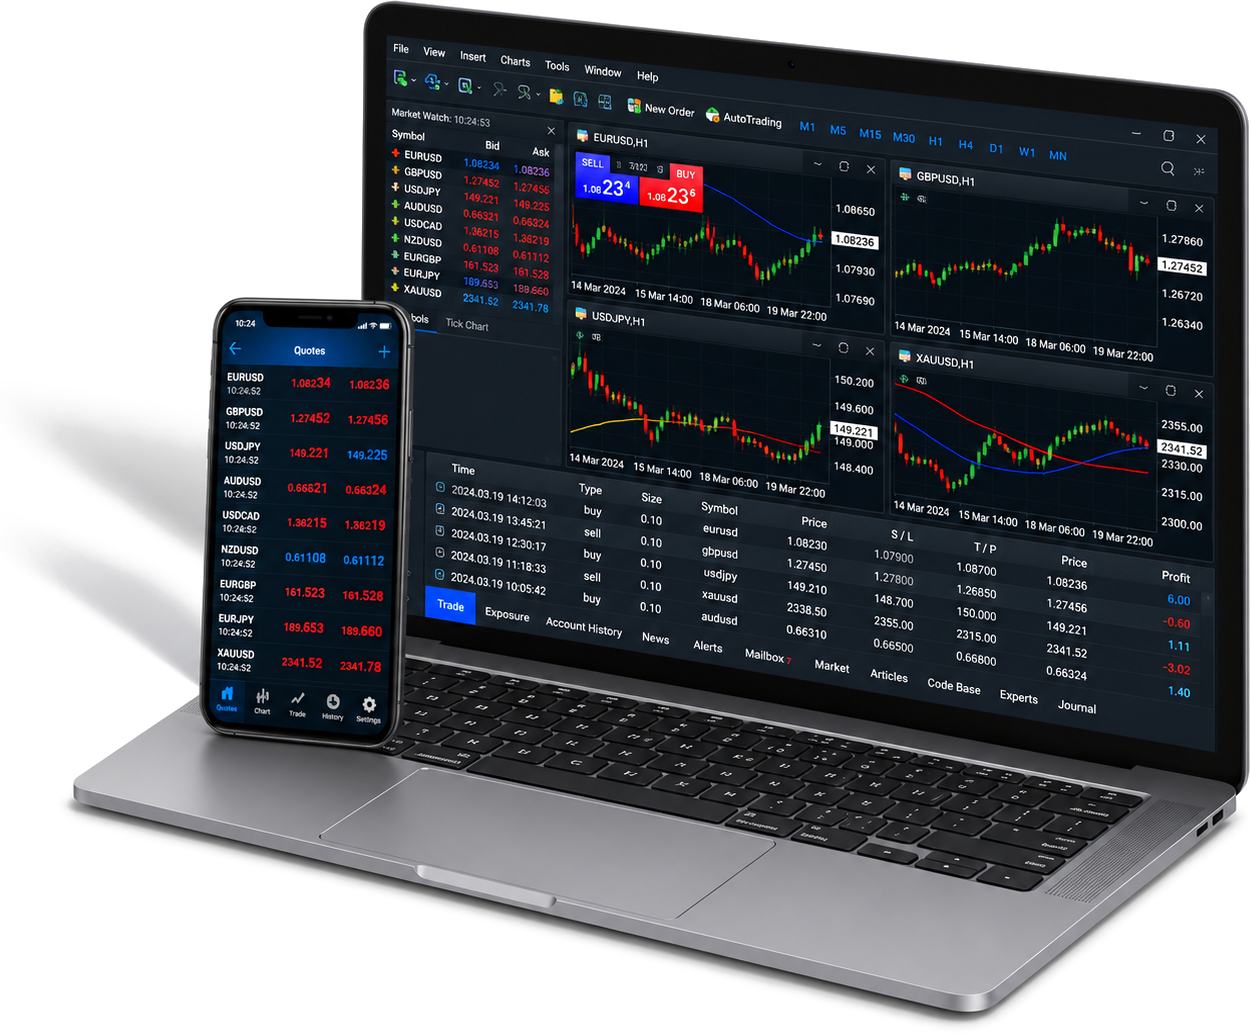
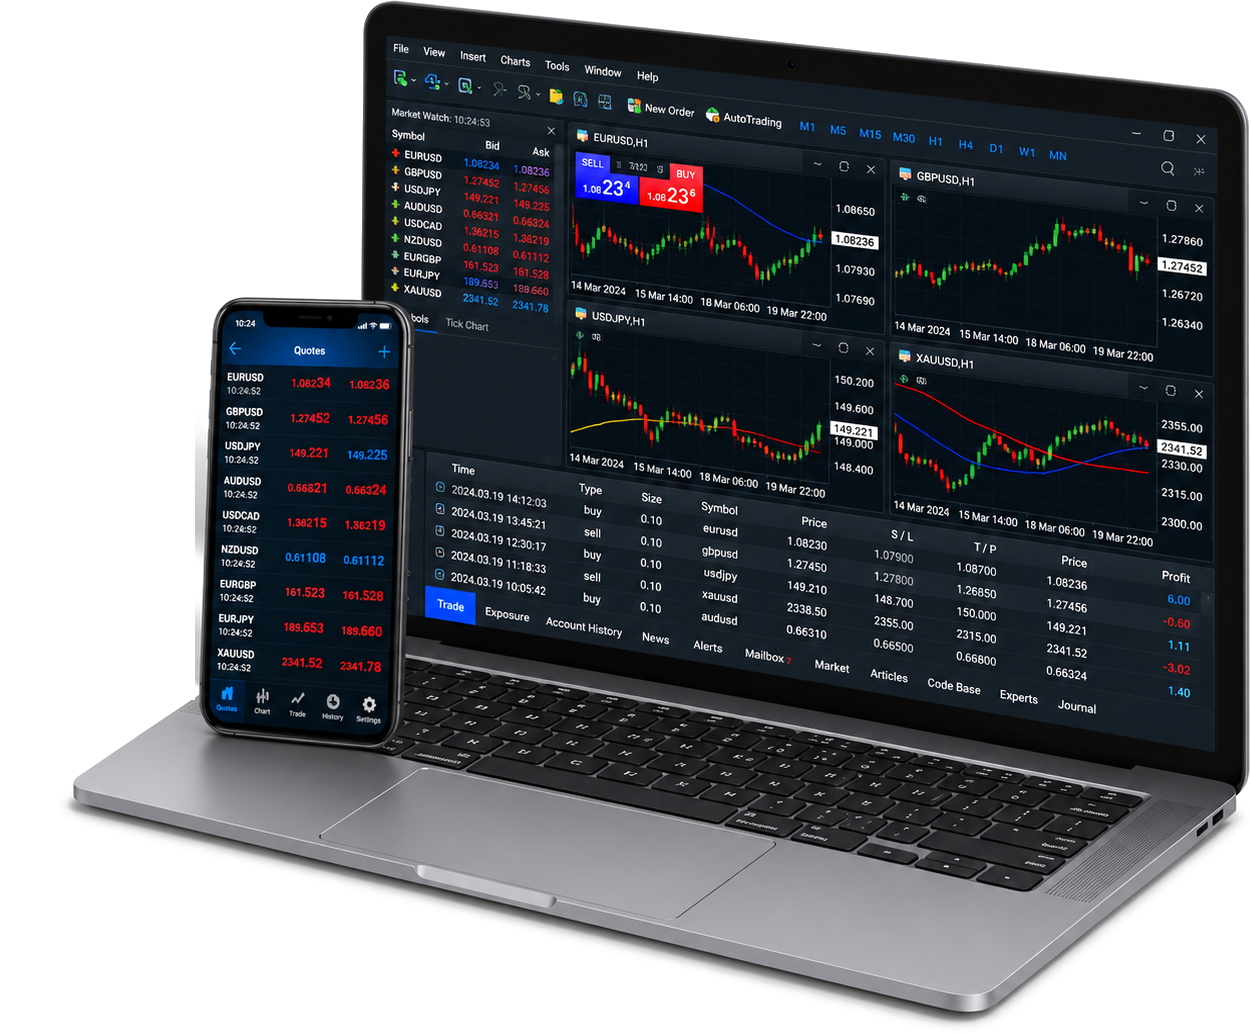
Remove stray light-beam artifact and fix back-to-top button clicks
- Clear the decorative light-beam streaks left over from the device
  mockup's original background instead of leaving them semi-opaque
- The floating contact widget's invisible menu area was intercepting
  clicks meant for the back-to-top button sitting above it; scope
  pointer-events so only the actual visible controls are clickable

Changed region(s): [[0.0312, 0.4023, 0.1559, 0.5261], [0.0312, 0.5261, 0.1559, 0.6499]]

diff --git a/css/style.css b/css/style.css
@@ -982,13 +982,14 @@ a:hover { color: var(--su-primary-dark); }
 }
 
 /* floating contact widget */
-.floating-contact { position: fixed; right: 22px; bottom: 22px; z-index: 1050; display: flex; flex-direction: column; align-items: flex-end; gap: .75rem; }
+.floating-contact { position: fixed; right: 22px; bottom: 22px; z-index: 1050; display: flex; flex-direction: column; align-items: flex-end; gap: .75rem; pointer-events: none; }
 .floating-contact-toggle {
 	width: 58px; height: 58px; border-radius: 50%; border: none;
 	background: linear-gradient(135deg, var(--su-primary), var(--su-primary-dark));
 	color: #fff; font-size: 1.35rem; box-shadow: 0 10px 26px rgba(31,78,140,.35);
 	display: flex; align-items: center; justify-content: center; cursor: pointer;
 	transition: transform .2s ease;
+	pointer-events: auto;
 }
 .floating-contact-toggle:hover { transform: scale(1.06); }
 .floating-contact-toggle .fa-xmark { display: none; }
@@ -998,9 +999,10 @@ a:hover { color: var(--su-primary-dark); }
 .floating-contact-menu {
 	display: flex; flex-direction: column; gap: .6rem;
 	opacity: 0; visibility: hidden; transform: translateY(10px);
+	pointer-events: none;
 	transition: opacity .2s ease, transform .2s ease, visibility .2s;
 }
-.floating-contact.is-open .floating-contact-menu { opacity: 1; visibility: visible; transform: translateY(0); }
+.floating-contact.is-open .floating-contact-menu { opacity: 1; visibility: visible; transform: translateY(0); pointer-events: auto; }
 
 .floating-contact-item {
 	display: flex; align-items: center; gap: .6rem;
